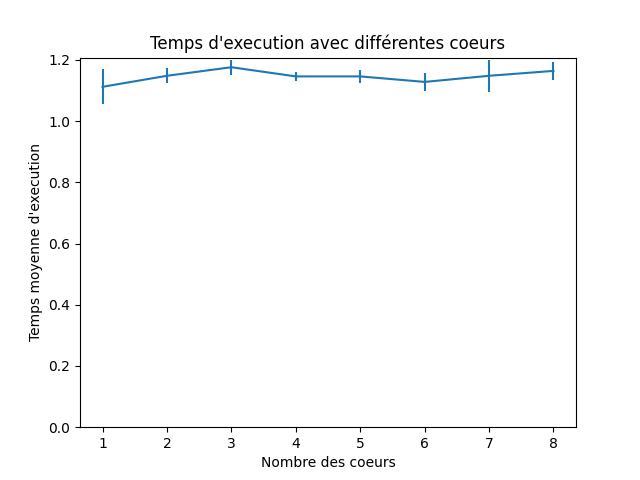
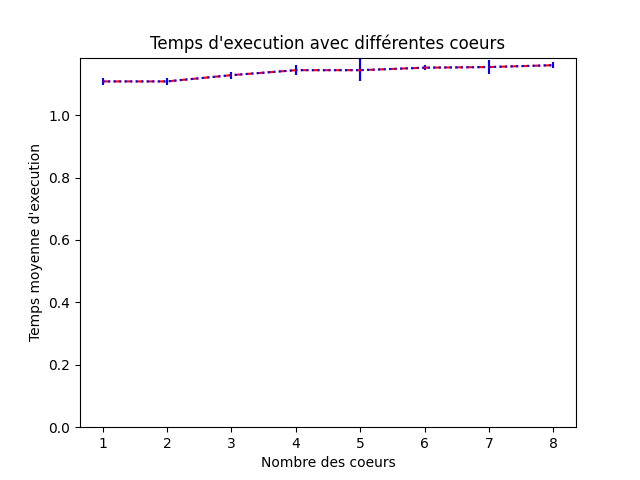
graphes TaTaS

diff --git a/graphes.py b/graphes.py
@@ -6,6 +6,7 @@ philoData = pandas.read_csv('philo.csv')["time"]
 prodConsData = pandas.read_csv('prodCons.csv')["time"]
 lectEcrvData = pandas.read_csv('lectEcr.csv')["time"]
 TaSData = pandas.read_csv('testAndSet.csv')["time"]
+TaTaSData = pandas.read_csv('testAndSet.csv')["time"]
 
 philoAverages = []
 stdPhilo = []
@@ -59,10 +60,18 @@ for i in range(0,len(TaSData),5) :
 	TaSAverages.append(np.mean(n))
 	stdTaS.append(np.std(n))
 
+TaTaSAverages = []
+stdTaTaS = []
+for i in range(0,len(TaTaSData),5) :
+	n = TaTaSData[i: i+5]
+	TaTaSAverages.append(np.mean(n))
+	stdTaTaS.append(np.std(n))
+
 plt.xlabel('Nombre des coeurs')
 plt.ylabel("Temps moyenne d'execution")
 plt.title("Temps d'execution avec différentes coeurs")
-plt.errorbar(range(1,len(TaSData)//5+1),TaSAverages, yerr=stdTaS)
+plt.errorbar(range(1,len(TaSData)//5+1),TaSAverages, yerr=stdTaS, color = 'r', linestyle="--")
+plt.errorbar(range(1,len(TaTaSData)//5+1),TaTaSAverages, yerr=stdTaTaS, color = 'b', linestyle=":")
 plt.axis(ymin=0)
 plt.savefig("TaS.png")
 plt.show()
